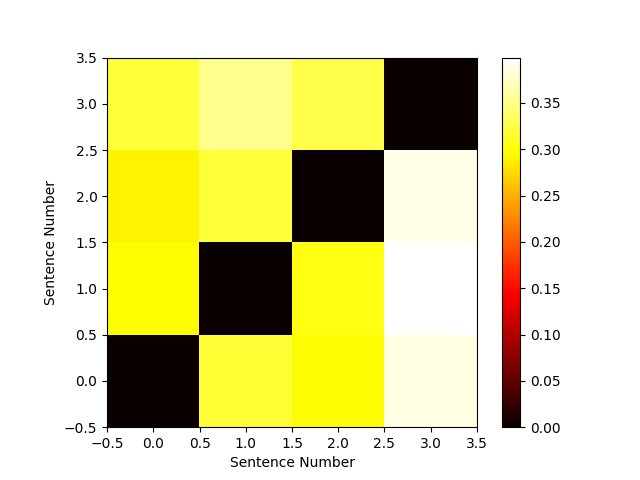
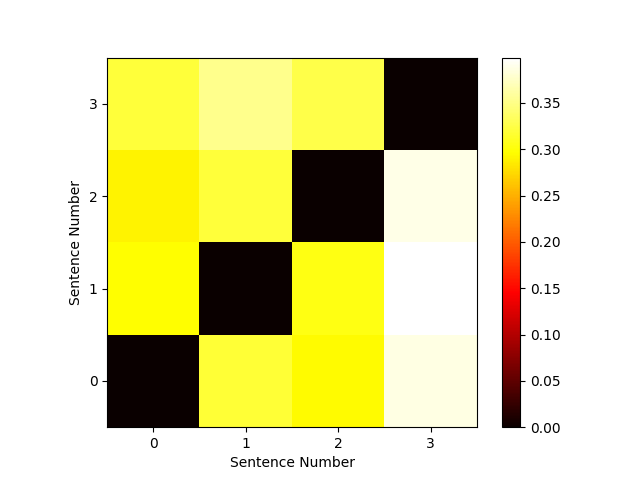
Plot ticks rectified

diff --git a/model.py b/model.py
@@ -94,6 +94,9 @@ class Classify(torch.nn.Module):
                     fig = plt.figure()
                     im = plt.imshow(mat, interpolation='nearest', cmap=cm.hot, origin='lower')
                     plt.xlabel('Sentence Number')
+                    if mat.shape[0] < 10:
+                        plt.xticks(range(0, mat.shape[0], 1))
+                        plt.yticks(range(0, mat.shape[0], 1))
                     #for j, actual_sent in enumerate(actual_sentence):
                     #    plt.text(10, 2 + j, actual_sent, ha='right', wrap=True, size=2)
                     plt.ylabel('Sentence Number')
@@ -112,6 +115,9 @@ class Classify(torch.nn.Module):
                 #for j, actual_sent in enumerate(actual_sentence):
                 #    plt.text(10, 2 + j, actual_sent, ha='right', wrap=True, size=2)
                 plt.ylabel('Sentence Number')
+                if mat.shape[0] < 10:
+                    plt.xticks(range(0, mat.shape[0], 1))
+                    plt.yticks(range(0, mat.shape[0], 1))
                 fig.colorbar(im)
                 fig.savefig('plots/sample_attn_gat_{}.png'.format(mat.shape[0]))
                 if actual_sentence is not None:
